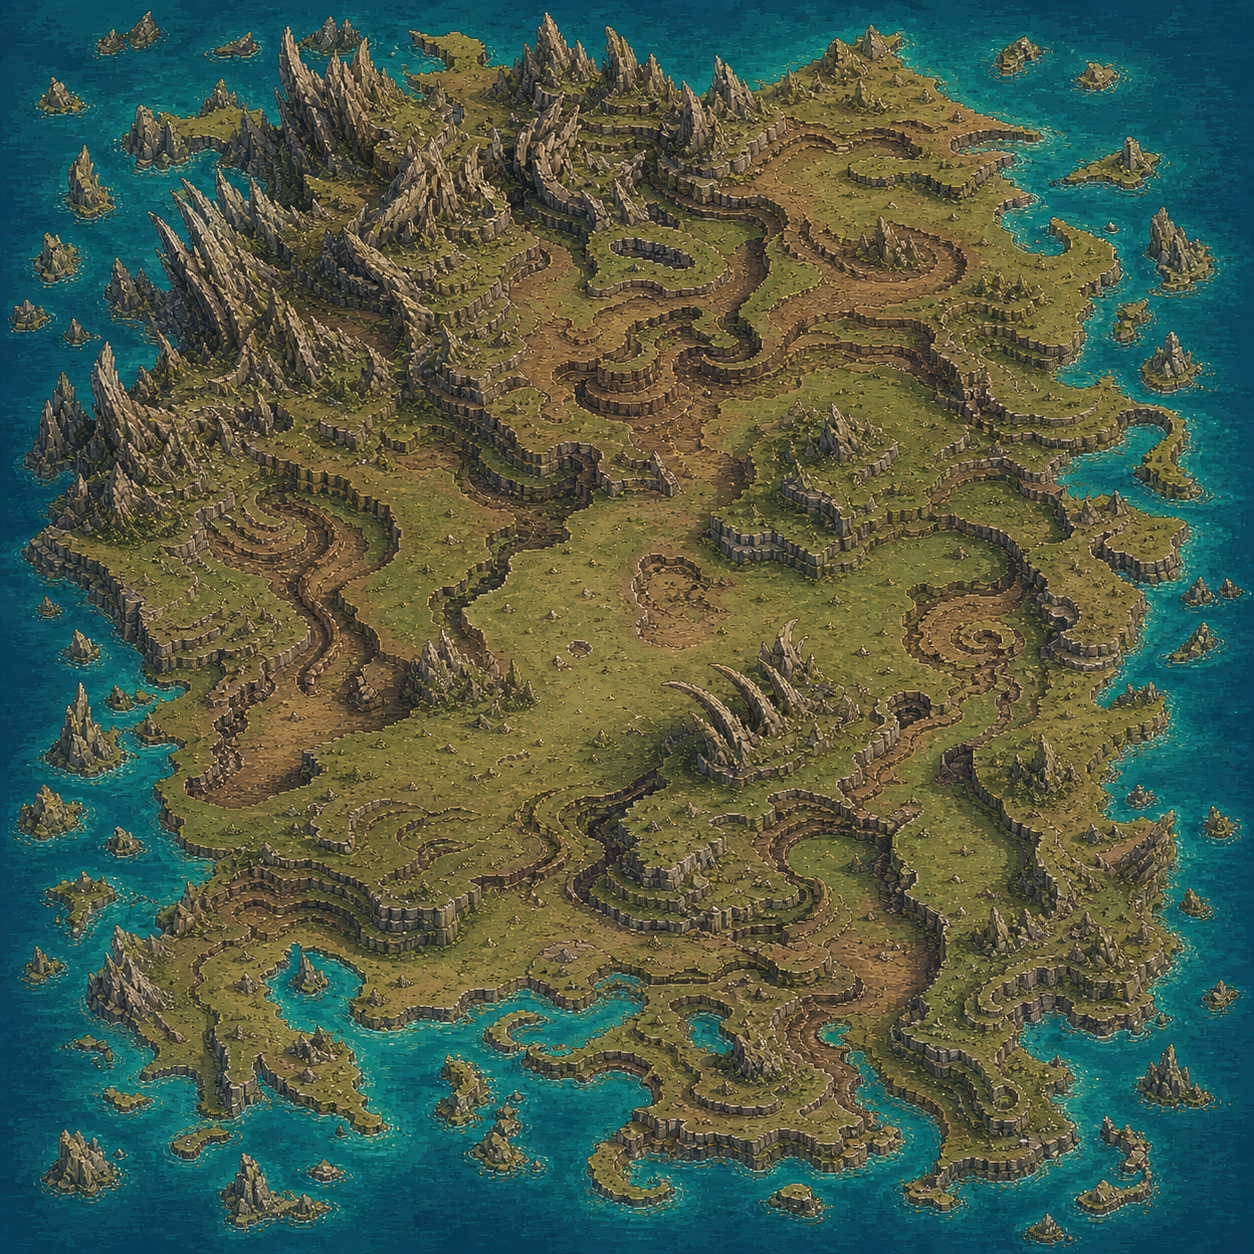
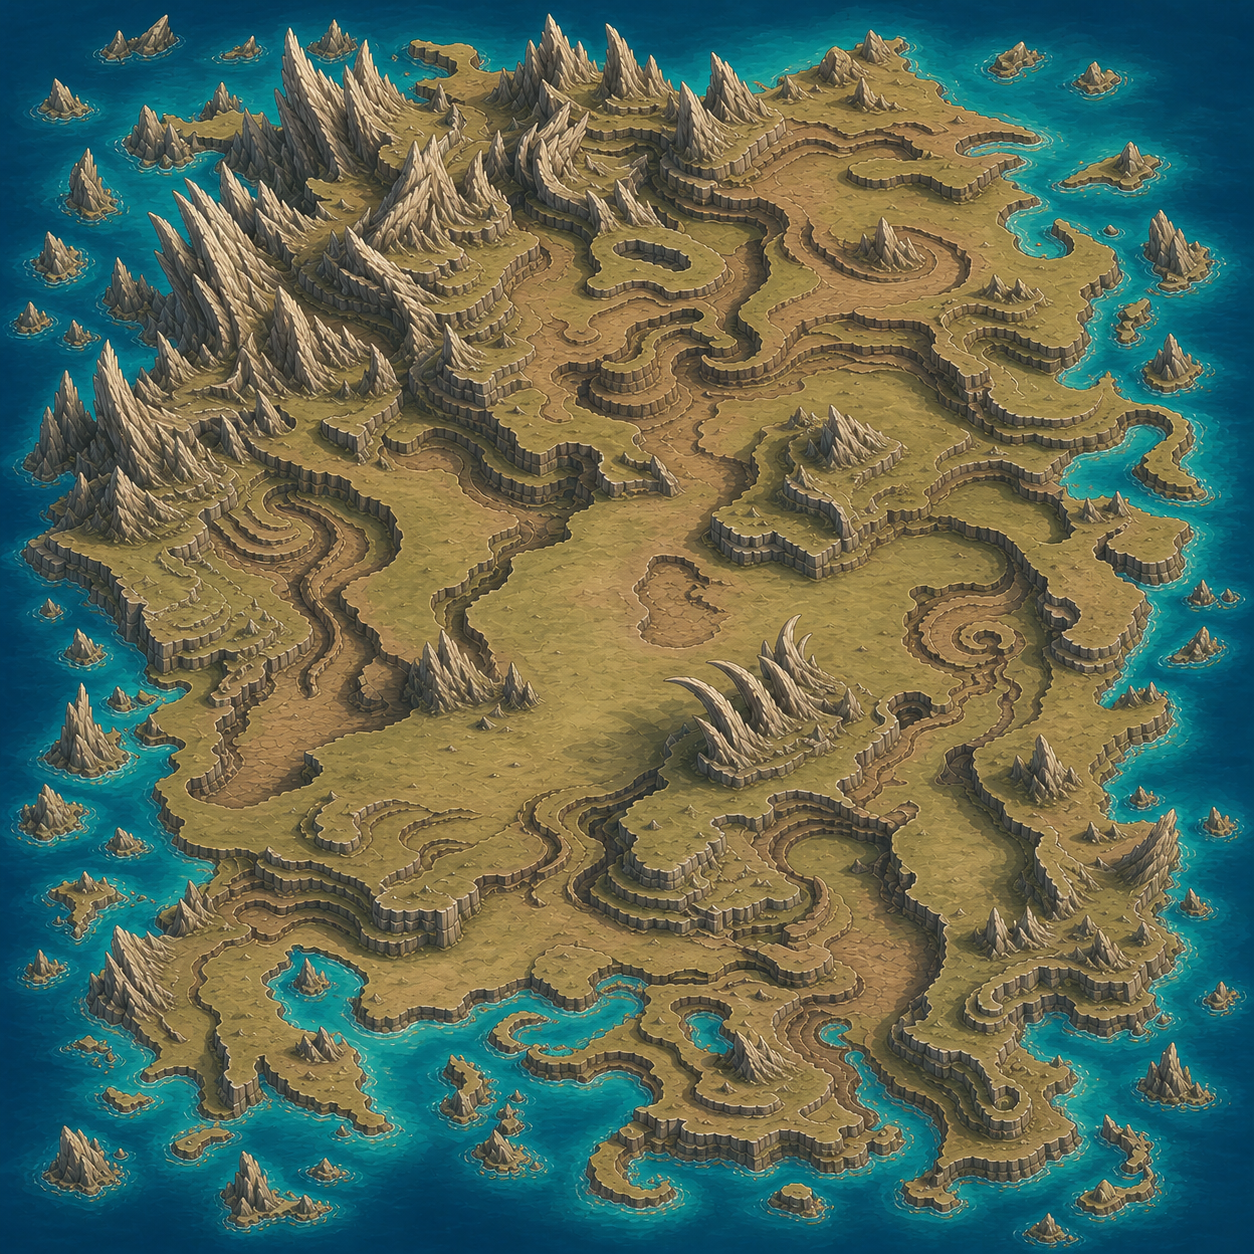
Redraw spawn map without pixel art or decor

diff --git a/tools/build_neurotic_spawn_map.py b/tools/build_neurotic_spawn_map.py
@@ -1,7 +1,7 @@
 from pathlib import Path
 from shutil import copyfile
 
-from PIL import Image
+from PIL import Image, ImageFilter
 
 
 ROOT = Path(__file__).resolve().parents[1]
@@ -18,7 +18,8 @@ def main() -> None:
 
     copyfile(GENERATED_SOURCE, FOUNDATION_SOURCE)
     with Image.open(GENERATED_SOURCE) as source:
-        overview = source.convert("RGB").resize((2048, 2048), Image.Resampling.NEAREST)
+        overview = source.convert("RGB").resize((2048, 2048), Image.Resampling.LANCZOS)
+        overview = overview.filter(ImageFilter.UnsharpMask(radius=0.8, percent=70, threshold=3))
         overview.save(OVERVIEW, compress_level=6)
 
         for row in range(2):
@@ -26,7 +27,8 @@ def main() -> None:
                 quadrant = overview.crop(
                     (column * 1024, row * 1024, (column + 1) * 1024, (row + 1) * 1024)
                 )
-                chunk = quadrant.resize((CHUNK_SIZE, CHUNK_SIZE), Image.Resampling.NEAREST)
+                chunk = quadrant.resize((CHUNK_SIZE, CHUNK_SIZE), Image.Resampling.LANCZOS)
+                chunk = chunk.filter(ImageFilter.UnsharpMask(radius=1.2, percent=85, threshold=3))
                 chunk.save(
                     MAP_DIR / f"spawn_reference_chunk_{column}_{row}.png",
                     compress_level=6,
